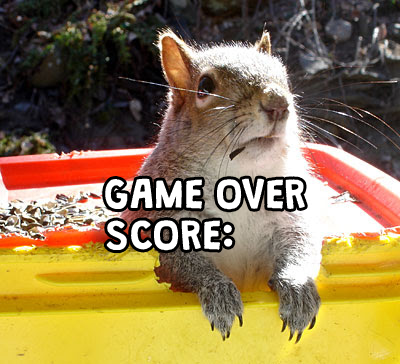
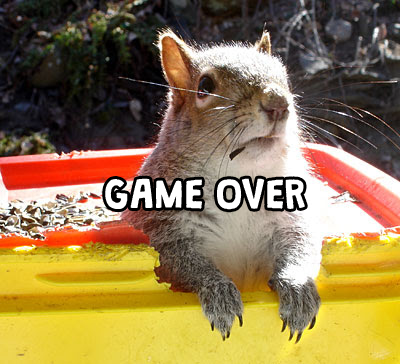
Fixed debriefing + Game Over screen

Changed region(s): [[0.24, 0.5742, 0.6, 0.6951]]

diff --git a/Not Enough Nuts/Assets/Scripts/Dialogue.cs b/Not Enough Nuts/Assets/Scripts/Dialogue.cs
@@ -20,13 +20,14 @@ public class Dialogue : MonoBehaviour {
         timer = GameObject.Find("Timer").GetComponent<Timer>();
         debriefing = true;
         debriefIndex = 0;
-        startDialogue = new string[5]; //{ "Press Space to advance dialogue", "SUBJECT #4531, ARISE! YOUR TIME HAS COME! THE KINGDOM APPROCHES THE DIRE TIME OF THE GREAT FROST. IT IS YOUR DUTY TO GATHER PROVISIONS FOR MY KINGDOM TO SURVIVE THE HARSH COLD.", "Use WASD to run and climb " + System.Environment.NewLine + "Use Space to jump " + System.Environment.NewLine + "Use E to fling nuts with your tail", };
+        startDialogue = new string[6]; //{ "Press Space to advance dialogue", "SUBJECT #4531, ARISE! YOUR TIME HAS COME! THE KINGDOM APPROCHES THE DIRE TIME OF THE GREAT FROST. IT IS YOUR DUTY TO GATHER PROVISIONS FOR MY KINGDOM TO SURVIVE THE HARSH COLD.", "Use WASD to run and climb " + System.Environment.NewLine + "Use Space to jump " + System.Environment.NewLine + "Use E to fling nuts with your tail", };
         startDialogue[0] = "Press Space to advance dialogue";
         startDialogue[1] = "SUBJECT #4531, ARISE! YOUR TIME HAS COME! THE KINGDOM APPROCHES THE DIRE TIME OF THE GREAT FROST. IT IS YOUR DUTY TO GATHER PROVISIONS FOR MY KINGDOM TO SURVIVE THE HARSH COLD.";
         startDialogue[2] = "Use WASD to run and climb " + System.Environment.NewLine + "Use Space to jump " + System.Environment.NewLine + "Use E to fling nuts with your tail";
-        startDialogue[3] = "Press T on top of a mole hole to move quickly across the forest";
-        startDialogue[4] = "GOOD LUCK SUBJECT 4531. MAY YOU VANQUISH THE BADGER MENACE AND HARVEST PLENTY. YOUR NATION IS COUNTING ON YOU.";   
-        activate("Squirrel King", startDialogue[0]);
+        startDialogue[3] = "Fling nuts at me, King Nutter, to add them to the Squirrel Kingdom's Reserve" + System.Environment.NewLine + "Press T on top of a mole hole to move quickly across the forest";
+        startDialogue[4] = "THE MORE NUTS YOU CARRY, THE HARDER IT WILL BE TO RUN,JUMP, AND CLIMB. USE YOUR TIME WISELY.";
+        startDialogue[5] = "GOOD LUCK SUBJECT 4531. MAY YOU VANQUISH THE BADGER MENACE AND HARVEST PLENTY. YOUR NATION IS COUNTING ON YOU.";   
+        activate("King Nutter", startDialogue[0]);
         debriefIndex++;
 	}
 	
@@ -34,7 +35,7 @@ public class Dialogue : MonoBehaviour {
 	void Update () {
         if (debriefing && Input.GetKeyDown("space"))
         {
-            activate("Squirrel King", startDialogue[debriefIndex]);
+            activate("King Nutter", startDialogue[debriefIndex]);
             debriefIndex++;
             if (debriefIndex == startDialogue.Length)
             {
